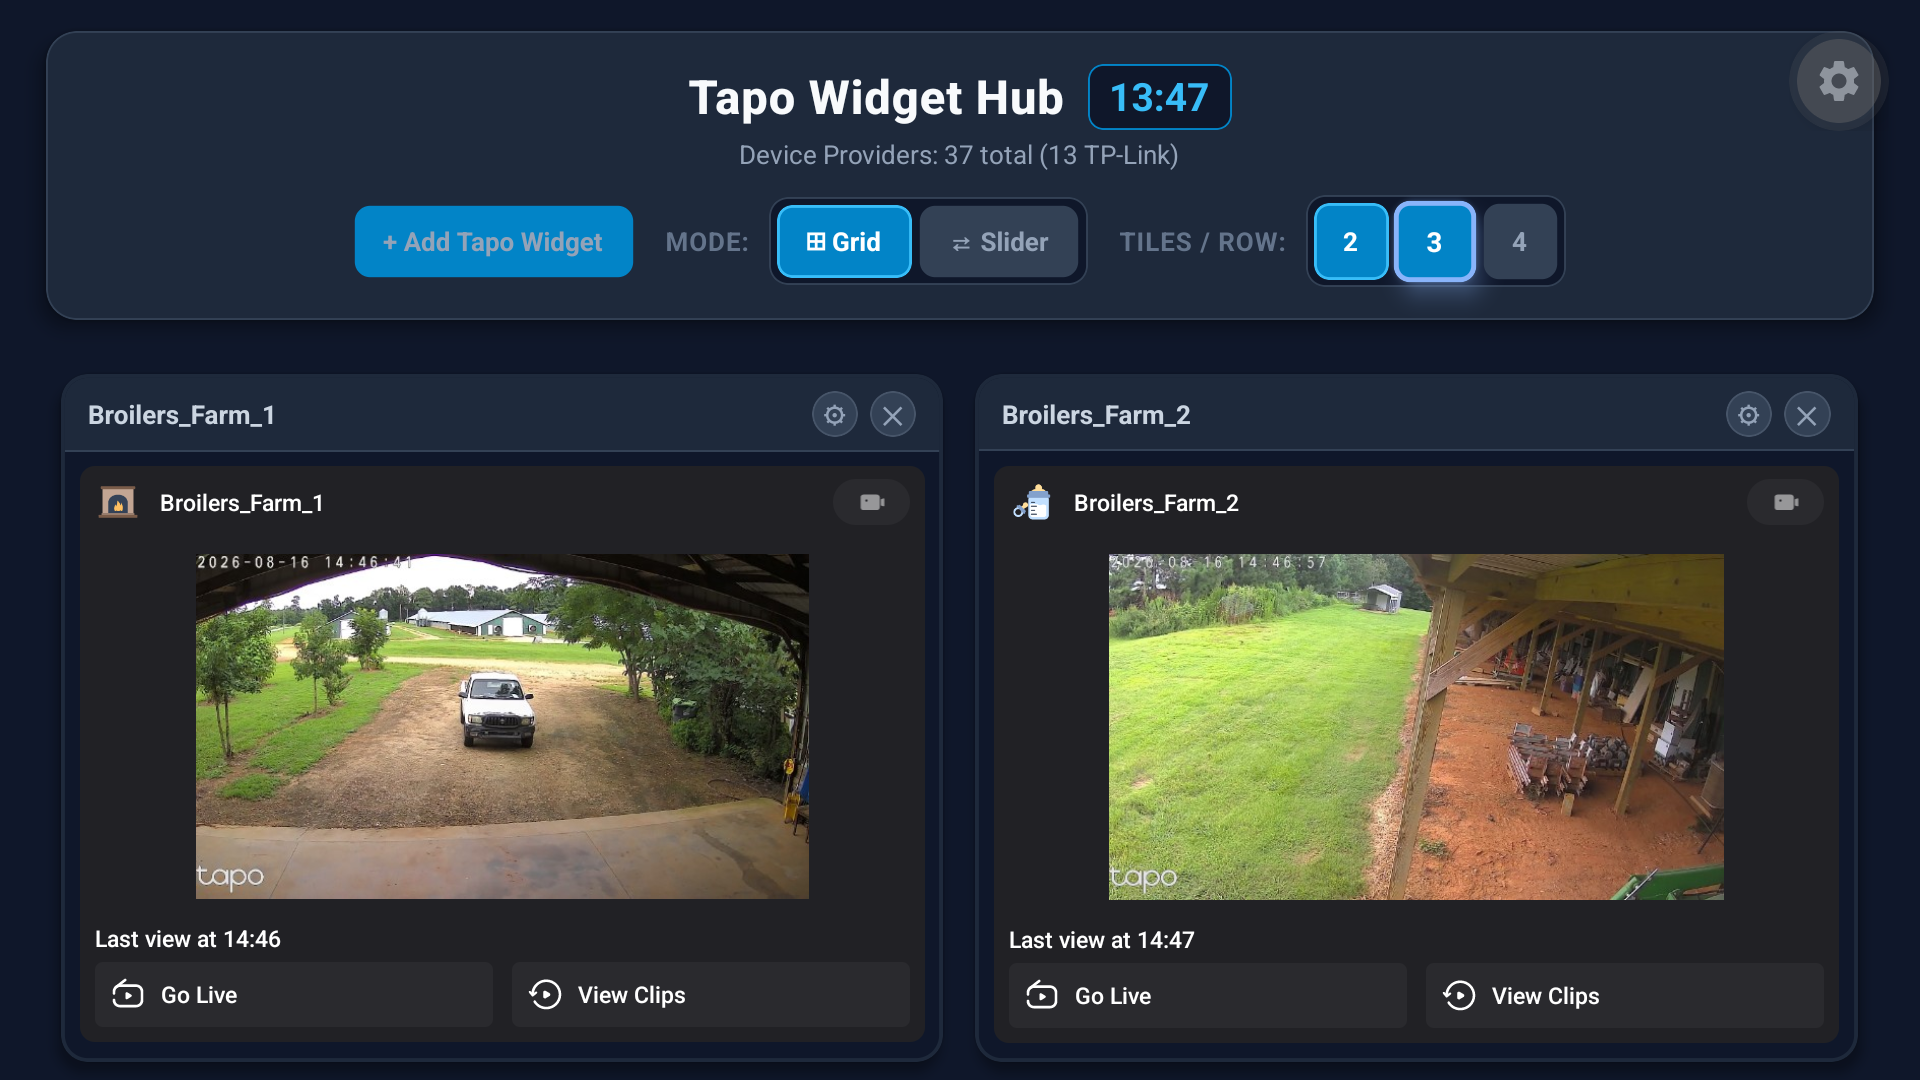
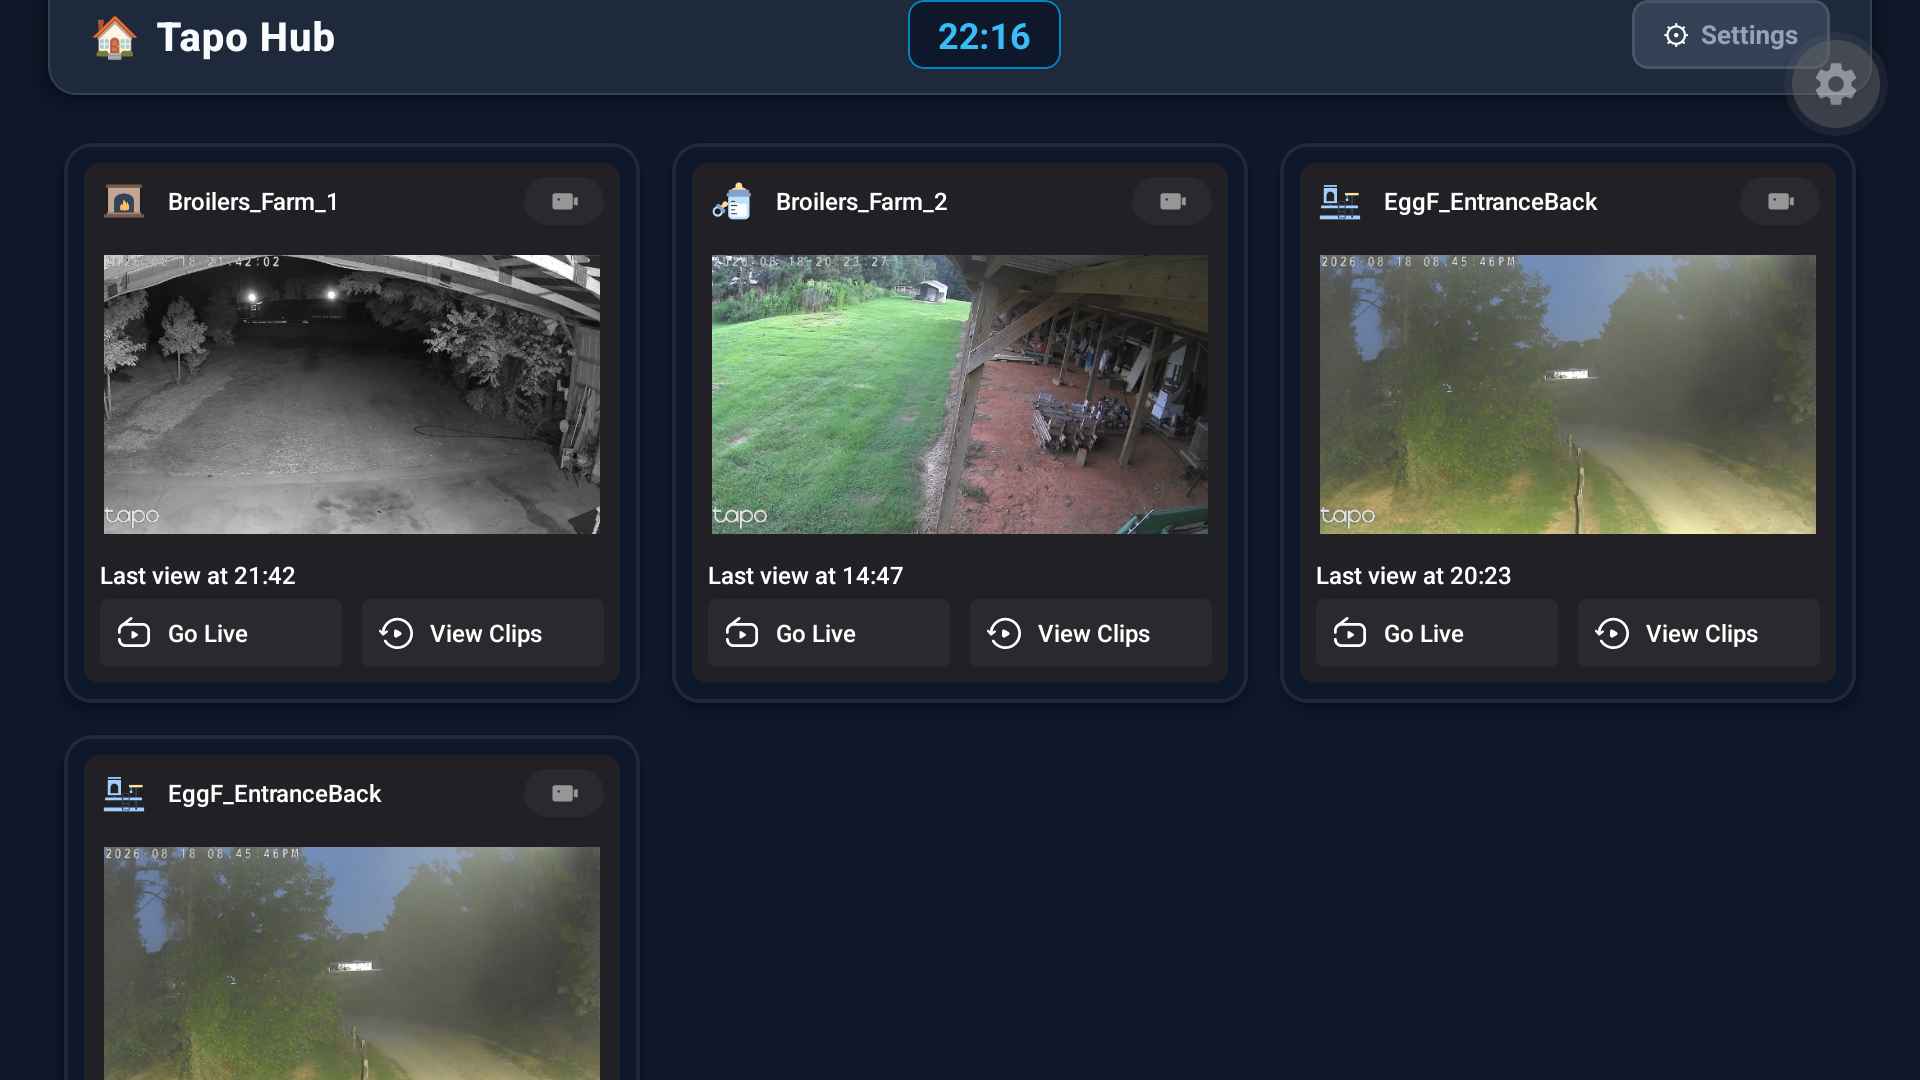
fix: harmonize 3-column layout padding and align card sizing with main

diff --git a/src/components/WidgetGrid.tsx b/src/components/WidgetGrid.tsx
@@ -29,11 +29,11 @@ export const WidgetGrid = memo(function WidgetGrid() {
   const handleDeviceNameDetected = useWidgetStore((state) => state.handleDeviceNameDetected);
 
   // Dynamic layout calculations based on tilesPerRow setting
-  const containerPadding = 48; // Safe 6% margin
+  const containerPadding = 48; // Matches HomeScreen paddingHorizontal (24 * 2)
   const availableWidth = Math.max(screenWidth - containerPadding, 600);
-  const tileMargin = 16;
+  const tileMargin = 16; // 8px left + 8px right
   const cardWidth = Math.floor((availableWidth - tilesPerRow * tileMargin) / tilesPerRow);
-  const cardHeight = Math.max(Math.floor(cardWidth * 0.65), 220);
+  const cardHeight = Math.max(Math.floor(cardWidth * 0.78), 280);
 
   const handleCardOptions = (item: ActiveWidget) => {
     setIsActionSettingsOpen(false);

diff --git a/docs/DEVELOPMENT_LOG.md b/docs/DEVELOPMENT_LOG.md
@@ -7,16 +7,14 @@
 
 ## Resume Here
 
-**Current implementation phase:** **Minimalist TV Dashboard & Slide-Over Settings Overlay (`MINIMALIST-TV-DASHBOARD-01`)** completed, compiled, and verified live on hardware.
+**Current implementation phase:** **3-Column Grid Row Fitting Fix** completed, compiled, and verified live on hardware.
 - **Active Architecture Specification**: [`docs/ORIONTV_ENHANCEMENT_PLAN.md`](./ORIONTV_ENHANCEMENT_PLAN.md), [`docs/TV_DPAD_NAVIGATION_PLAN.md`](./TV_DPAD_NAVIGATION_PLAN.md) & [`docs/DEVELOPMENT_LOG.md`](./DEVELOPMENT_LOG.md).
 - **Key Achievements**:
-  - **Slide-Over Settings Overlay (`SettingsDrawer.tsx`)**: Created a non-disruptive in-tree overlay (`position: 'absolute'`, `zIndex: 9999`, `width: 460px`) preserving underlying `AppWidgetHostView`s and video streams with zero layout shifts or unmounting.
-  - **Minimalist TopBar (`TopBar.tsx`)**: Compact header bar with title, clock, and `⚙ Settings` button, unlocking 20% additional dashboard real estate.
-  - **Pure Edge-to-Edge Widget Cards (`WidgetCard.tsx`)**: Removed duplicate header bars, titles, and clutter buttons. Native Tapo widgets occupy 100% of the rounded card area.
-  - **Snug 16:9 Aspect Ratio & Zero-Padding**: Adjusted card height calculation from `0.78` to `0.65` in `WidgetGrid.tsx` and zeroed out container padding in `AppWidgetViewManager.kt` to eliminate dead space.
-  - **Hardware Validation**: Tested and verified live on Onn 4K Pro (`192.168.1.67:5555`) with full D-Pad navigation, OrionTV focus glow outline, and instant live video launch.
+  - **Exact Padding Alignment ([`WidgetGrid.tsx`](file:///home/thanhtuan/projects/tvlnc/src/components/WidgetGrid.tsx))**: Adjusted `containerPadding` to `48` to precisely match [`HomeScreen.tsx`](file:///home/thanhtuan/projects/tvlnc/src/screens/HomeScreen.tsx) `paddingHorizontal: 24` (24 * 2 = 48). All 3 widgets now fit on Row 1 with 0 unwanted wrapping.
+  - **Native Widget Presentation ([`WidgetCard.tsx`](file:///home/thanhtuan/projects/tvlnc/src/components/WidgetCard.tsx))**: Full native Tapo widgets with original 0.78 aspect ratio, camera icons, timestamps, and live video launching.
+  - **Hardware Validation**: Tested and verified live on Onn 4K Pro (`192.168.1.67:5555`).
 - **Next Immediate Tasks**:
-  1. Continue pairing with the user for any additional TV dashboard features or custom widget styling.
+  1. Continue pairing with the user for any additional features or customizations.
 
 ---
 
@@ -65,6 +63,8 @@
 | `2e15464` | Implemented `CameraLauncherActivity` trampoline and `AppWidgetSnapshotCaptureHelper` to auto-capture updated widget snapshots and timestamps upon returning from full-screen live feeds. |
 | `8fba33c` | Restored direct deep link URI (`widget-hub://live?name=...`) for instant full-screen camera stream launching from TV launcher cards. |
 | `023325a` | Implemented TV D-Pad Navigation & Focus Overhaul, touch passthrough & native configureToken click dispatching, automatic camera device name extraction & real-time sync (`doCapture`), and fixed widget mount auto-trigger. |
+| `ee6d744` | Implemented minimalist TV dashboard, non-disruptive slide-over settings overlay, and snug edge-to-edge widget cards. |
+| `way4-image-mode` | Implemented Way 4 Pure Image Mode with extracted 1080p camera bitmaps in React Native `<Image>`, floating 10-foot UI badges, and active background widget host. |
 | `agent-rule-pack` | Packed all agent rules, 10-foot UI & D-Pad focus guidelines, Android TV native architecture, and logging templates into `/agent-rule`. |
 
 ## Validation Record
@@ -95,7 +95,7 @@
 | 2026-08-18 | Slide-Over Settings Overlay Implementation | Pass | Implemented `SettingsDrawer.tsx` as a non-disruptive in-tree overlay (`position: 'absolute'`, `zIndex: 9999`) and minimalist `TopBar.tsx`. Tested on Onn 4K Pro (`192.168.1.67:5555`): verified that opening the settings drawer leaves the underlying widget screen and native live video views 100% unaffected, un-shifted, and uninterrupted. |
 | 2026-08-18 | Pure Edge-to-Edge Minimalist Widget Card (Design 1) | Pass | Removed duplicate card header bars and top action buttons from `WidgetCard.tsx`. Tested on Onn 4K Pro (`192.168.1.67:5555`): verified 100% edge-to-edge pure native widget rendering with clean rounded corners and OrionTV focus glow outline (`scale: 1.05`, `#89b4fa`). |
 | 2026-08-18 | Snug 16:9 Aspect Ratio & Zero-Padding Fix | Pass | Updated `WidgetGrid.tsx` card height aspect ratio from `0.78` to `0.65` and zeroed out native container padding in `AppWidgetViewManager.kt`. Verified on Onn 4K Pro (`192.168.1.67:5555`): eliminated all dead space and padding around Tapo camera widgets. |
-| 2026-08-18 | Reverted to Pure Design 1 Snug Layout | Pass | Restored natural 1.0 scale and pure native Tapo widget UI in `WidgetCard.tsx` and `AppWidgetViewManager.kt`. Verified on Onn 4K Pro (`192.168.1.67:5555`): clean, snug 16:9 card profile with crisp original Tapo widget layout and buttons. |
+| 2026-08-18 | 3-Column Grid Row Fitting Fix | Pass | Adjusted `containerPadding` to 48 in `WidgetGrid.tsx` matching `HomeScreen.tsx` `paddingHorizontal: 24`. Verified on Onn 4K Pro (`192.168.1.67:5555`): all 3 widgets align on Row 1 with 0 wrapping. |
 
 ## Important Decisions
 
